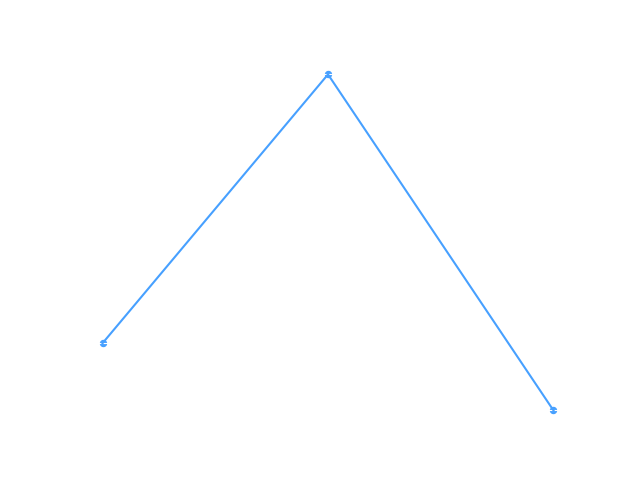
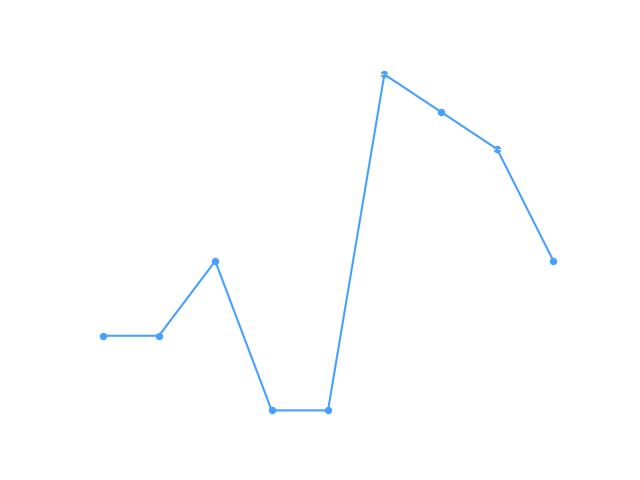
graphing updates and docker file updates

diff --git a/bot.py b/bot.py
@@ -5,8 +5,11 @@ import os
 from nextcord.utils import format_dt
 import dateutil.parser as dparser
 from database import pochBot_db as pb_db
-import io
-import matplotlib.pyplot as plt
+from datagraphing import pochbotGraphs as pb_graphs
+
+#static keys
+timer_channel_id = os.environ.get("channel_id")
+api_key = os.environ.get("discbot")
 
 class StructureBot:
     
@@ -80,6 +83,62 @@ async def s(ctx, time: str):
   await ctx.send(f"> **{new_site}**")
 
 @bot.command()
+async def S(ctx, time: str):
+  '''
+  for site ran by other people so it wont count against you
+  '''
+  new_site = StructureBot.new_Site(time)
+  await ctx.send(f"> **{new_site}**")
+
+@bot.command()
+async def stats(ctx, *, user=None):
+    if user is None:
+        user = ctx.message.author
+    else:
+        pass
+    
+    df = pb_db.individual_sites_done(user)
+    user = df['Name'][0]
+    sites_ran = df['Payout'].value_counts()
+    profit = 3.4 * sites_ran.sum()
+    tax = profit * .025
+
+    embed = discord.Embed(title=f"Sites Run by {user}", description=f'Sites Run: {sites_ran.sum()}')
+    embed.add_field(name='Total Payout', value=f'{profit:.2f} Bil')
+    embed.add_field(name='Tax', value=f'{tax:.3f} Bil')
+
+    file = pb_graphs.individual_sites_graph(df)
+    image = discord.File(file, filename='graph.png')
+    embed.set_image(url=f'attachment://graph.png')
+    await ctx.send(file=image, embed=embed)
+
+@bot.command()
+async def Tstats(ctx):
+  df = pb_db.total_site_done()
+  payout = 3.4
+  df = df.drop('Date', axis = 1)
+  df['IskMade'],df['Tax'] = df['TotalPayout'] * payout, df['TotalPayout'] * payout *.025
+  df_sorted = df.sort_values(by='IskMade', ascending=False).to_string(index=False)
+
+  embed = discord.Embed(title=f"Total Payouts", description= f"""```{df_sorted}```""")
+
+  file = pb_graphs.total_sites_done_total(df)
+  image = discord.File(file, filename='graph.png')
+  embed.set_image(url=f'attachment://graph.png')
+  await ctx.send(file=image, embed=embed)
+
+@bot.command()
+async def t(ctx, *, time):
+  '''
+  creates a timer for a structure in a specified channel
+  '''
+  channel_id = int(timer_channel_id)
+  response_channel = bot.get_channel(channel_id)
+  timers = StructureBot.timer(time)
+  delete_after_time = timers[3] 
+  await response_channel.send(f">>> {timers[0]}\n{timers[1]} in {timers[2]}", delete_after=delete_after_time)
+
+@bot.command()
 async def timer(ctx, *, time):
   ''''
   creates a timer for a structure in any channel where the command is called
@@ -89,64 +148,15 @@ async def timer(ctx, *, time):
   await ctx.send(f">>> {timers[0]}\n{timers[1]} in {timers[2]}", delete_after=delete_after_time)
 
 @bot.command()
-async def t(ctx, *, time):
-  '''
-  creates a timer for a structure in a specified channel
-  '''
-  channel_id = StructureBot.get_channel_id('dora_channel_id')
-  timers = StructureBot.timer(time)
-  delete_after_time = timers[3] 
-  if channel_id == None:
-    await ctx.send(f">>> {timers[0]}\n{timers[1]} in {timers[2]}", delete_after=delete_after_time)
-  else:
-    response_channel = bot.get_channel(channel_id)
-    await response_channel.send(f">>> {timers[0]}\n{timers[1]} in {timers[2]}", delete_after=delete_after_time)
-
-@bot.command()
-async def stats(ctx, user = None):
-  if user == None:
-    user = ctx.message.author
-    user_name = str(user).split('#')
-  else:
-     pass
-  user_name = user
-  df = pb_db.individual_sites_done(user)
-  user = df['Name'][0]
-  sites_ran = df['Payout'].value_counts()
-  profit = 3.4 * sites_ran.values[0]
-  tax = profit * .025
-  embed = discord.Embed(title=f"Sites Run by {user}", description= f'Sites Run: {sites_ran.values[0]}')
-  embed.add_field(name= 'Total Payout', value=f'{profit} Bil')
-  embed.add_field(name= 'Tax', value=f'{tax} Bil')
-  plt.style.use('dark_background')
-  fig, ax = plt.subplots()
-  counts = df['Date'].value_counts().sort_index(ascending=True)
-  dates = counts.index
-  payouts = counts.values
-  ax.set_xlabel('Date')
-  ax.set_ylabel('Payouts')
-  ax.scatter(dates, payouts, marker='.', s = 75, color = '#47a0ff')
-  ax.plot(counts, color = '#47a0ff')
-  ax.yaxis.grid()
-  ax.spines['top'].set_visible(False)
-  ax.spines['right'].set_visible(False)
-  ax.spines['left'].set_visible(False)
-  plt.savefig('graph.png', transparent=True)
-  plt.close(fig)
-  with open('graph.png', 'rb') as f:
-      file = io.BytesIO(f.read())
-  image = discord.File(file, filename='graph.png')
-  embed.set_image(url=f'attachment://graph.png')
-  await ctx.send(file=image, embed=embed)
-
-@bot.command()
 async def h(ctx):
   commands = {
-      's' : 'add 35 minutes to the time in 24hr format',
-      'timer': 'creates a timer for a structure in any channel where the command is called',
-      't': 'creates a timer for a structure in a specified channel no matter where the timer is entered',
+      's' : 'Add 35 minutes to the time in 24hr format and adds a site ran to your total',
+      'timer': 'Creates a timer for a structure in any channel where the command is called',
+      't': 'Creates a timer for a structure in a specified channel no matter where the timer is entered',
       'stats': 'Gives the # of sites ran by a user',
-      'p': 'returns a map of pochven and how close the wormhole will bring you only works for high and lowsec systems'
+      'p': 'Returns a map of pochven and how close the wormhole will bring you only works for high and lowsec systems',
+      'S': 'Add 35 minutes to the time in 24hr format if someone else runs the spawn and wont add it to your total',
+      'Tstats': 'Shows all the sites ran by everyone and the relevent stats'
   }
   command_txt = ">>> "
   for key, value in commands.items():
@@ -155,7 +165,6 @@ async def h(ctx):
       
 def main():
     pb_db.create_site_table()
-    api_key = os.environ.get("discbot")
     bot.run(api_key)
 
 if __name__ == "__main__":

diff --git a/datagraphing.py b/datagraphing.py
@@ -1,0 +1,46 @@
+import matplotlib.pyplot as plt
+from matplotlib.colors import ListedColormap
+import io
+
+cmap = ListedColormap(['#67001F', '#B2182B', '#D6604D', '#F4A582', '#FDDBC7', '#FFFFFF', '#D1E5F0', '#92C5DE', '#4393C3', '#2166AC', '#053061'])
+
+class pochbotGraphs:
+    def individual_sites_graph(df):
+
+        plt.style.use('dark_background')
+        fig, ax = plt.subplots()
+
+        counts = df['Date'].value_counts().sort_index(ascending=True)
+        dates = counts.index
+        payouts = counts.values
+
+        ax.set_xlabel('Date')
+        ax.set_ylabel('Payouts')
+
+        ax.yaxis.grid()
+        ax.spines['top'].set_visible(False)
+        ax.spines['right'].set_visible(False)
+        ax.spines['left'].set_visible(False)
+
+        ax.scatter(dates, payouts, marker='.', s = 75, color = '#47a0ff')
+        ax.plot(counts, color = '#47a0ff')
+        # number of dates and calculate the step size for x-axis ticks
+        num_dates = len(dates)
+        tick_positions = [0, num_dates // 3, 2 * num_dates // 3, num_dates - 1]
+        tick_labels = [dates[i] for i in tick_positions]
+        plt.xticks(tick_positions, tick_labels, color='white')
+        plt.savefig('graph.png', transparent=True)
+        plt.close(fig)
+        with open('graph.png', 'rb') as f:
+            file = io.BytesIO(f.read())
+        return file
+    
+    def total_sites_done_total(df):
+        plt.style.use('dark_background')
+        colors = ['red', 'blue', 'purple', 'orange', 'green', 'brown', '#87cbb9', '#577d86', '#660000', '#b36880']
+        plt.pie(df['TotalPayout'], labels=df['Name'],autopct='%1.1f%%', colors=colors)
+        plt.savefig('graph.png', transparent=True)
+        plt.close()
+        with open('graph.png', 'rb') as f:
+            file = io.BytesIO(f.read())
+        return file

diff --git a/README.md b/README.md
@@ -1,0 +1,35 @@
+# PochBot
+PochBot is a bot for [EVE Online](https://www.eveonline.com/). It is primarly made for pochven but has a few commands that are usefull outside of pochven for creating unix timers in a discord format for structure timers.
+
+## Table of contents
+* [General info](#general-info)
+* [Setup](#setup)
+
+## General info
+all bot commands are called with the **!** prefix.
+    Commands:
+      's' : Add 35 minutes to the time in 24hr format and adds a site ran to your total.
+      'timer': Creates a timer for a structure in any channel where the command is called
+      't': Creates a timer for a structure in a specified channel no matter where the timer is entered **Requires Channel ID**.
+      'stats': Gives the # of sites ran by a user.
+      'p': Returns a map of pochven and how close the wormhole will bring you only works for high and lowsec systems.
+      'S': Add 35 minutes to the time in 24hr format if someone else runs the spawn and wont add it to the database.
+      'h': shows this list of commands.
+      'Tstats': shows all the sites ran by everyone and the relevent stats
+
+	
+## Setup
+PochBot is simple and easy to set up simply clone the project and add your discord api key.
+
+### 1. Discord
+Add your token from your bot to the .env in `discbot=<key>` and add the bot to your server if you need help follow this [documentaion](https://discord.com/developers/docs/topics/oauth2#bots).
+
+### 2. 
+Add your channel id for for the !t command to the .env `channel_id=<id>`.
+
+### 3. SetUp
+1. clone this repository.
+2.
+```
+docker compose up --build -d
+```
